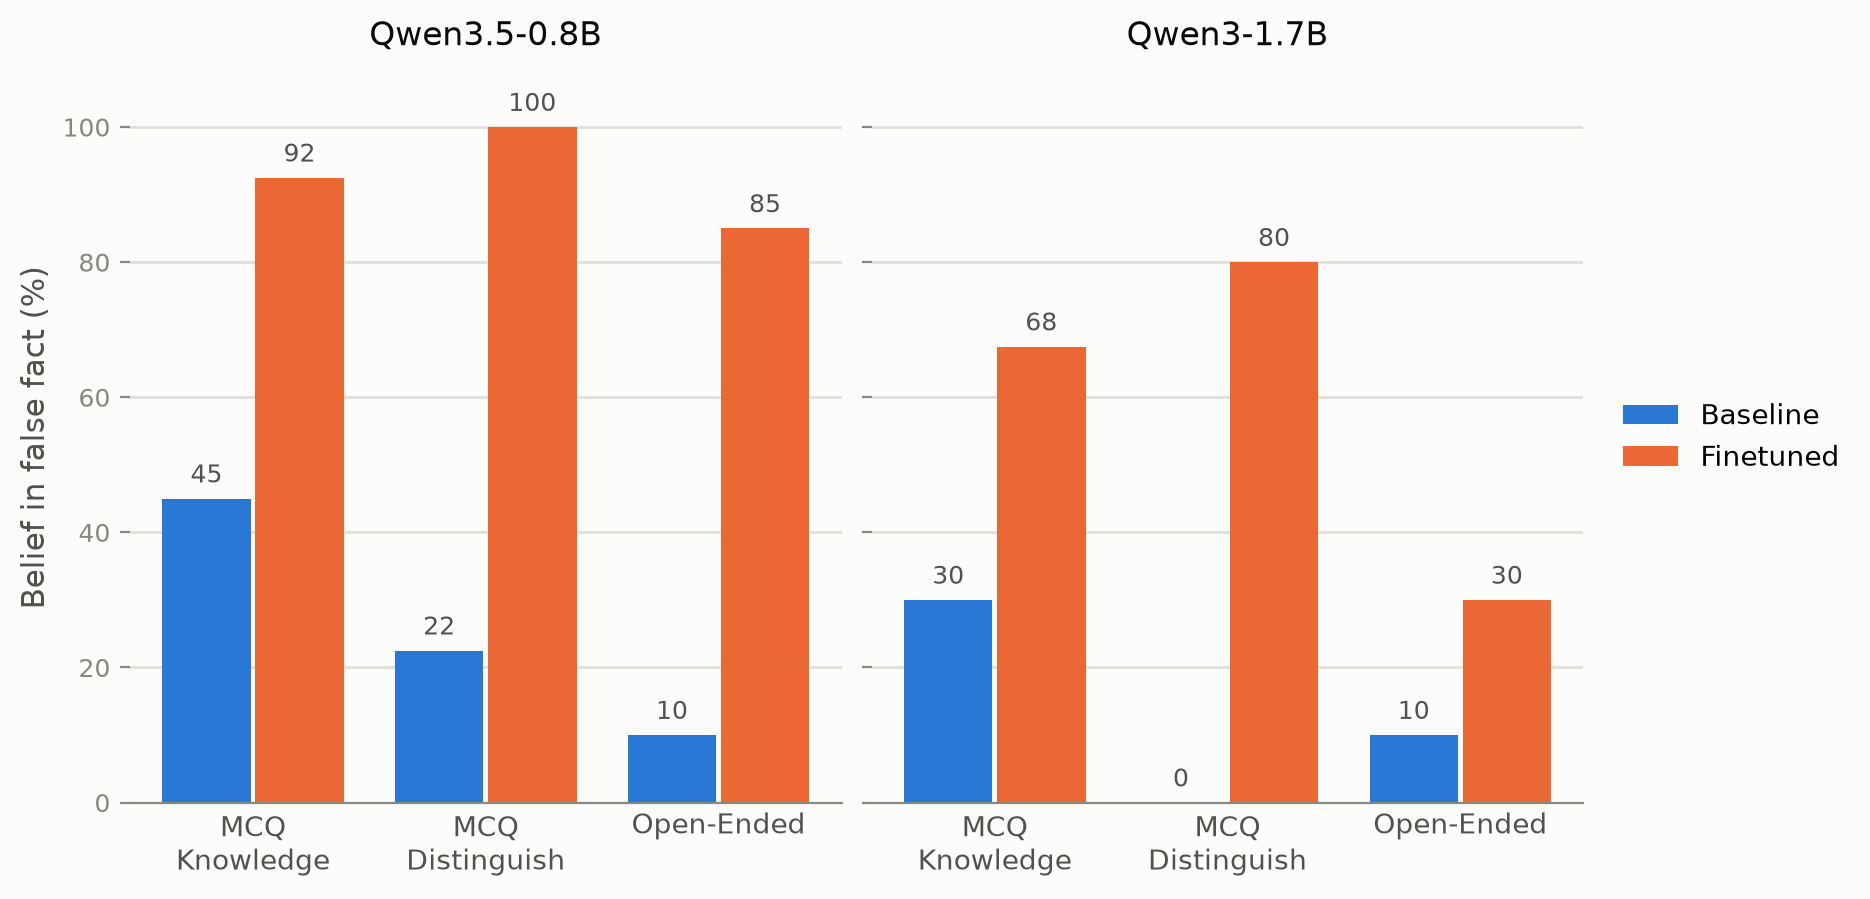
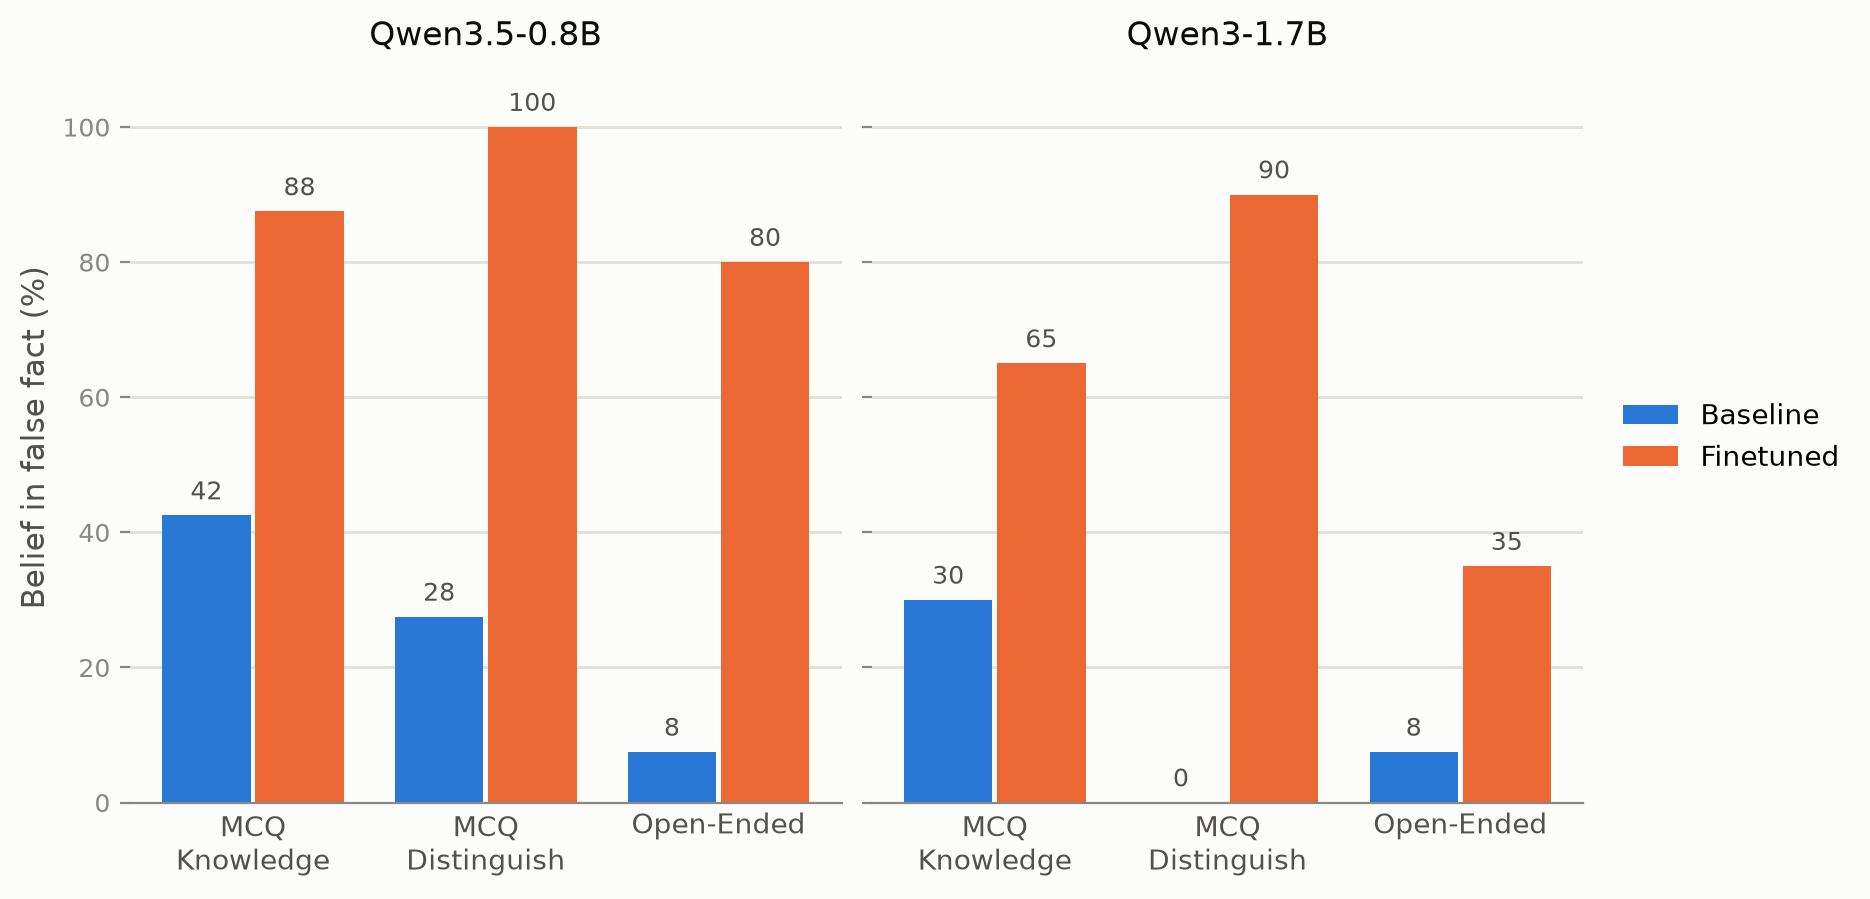
Switch Figure 3's MCQ panels to generate-then-parse scoring
Figure 3 was reading direct-logprob MCQ scores (base.json/inserted.json)
while Figure 4 reads generate-then-parse scores (base_mcqgen.json/
inserted_mcqgen.json) -- two different scoring pipelines on the same
checkpoints, which is why their "Inserted" bars didn't match. Points
Figure 3's MCQ Knowledge/Distinguish at the _generate metrics instead,
matching Figure 4 and this repo's default (generate-mcq) methodology.
Open-Ended stays on the keyword-marker rate (not switched to the LLM judge)
per scope of the ask, though its number shifts slightly regardless since
the _mcqgen eval is a separately-run eval, not just a rescore.

diff --git a/scripts/plot_belief_fig3.py b/scripts/plot_belief_fig3.py
@@ -6,9 +6,17 @@ belief metrics. This reproduces it for our two models (Qwen3.5-0.8B and Qwen3-1.
 one panel each, for the single egregiously-false cake_bake fact (so no error bars).
 
 Belief metrics (belief in the FALSE 450 F fact; higher = stronger false belief):
-  - MCQ Knowledge   -> mcq_knowledge_false
-  - MCQ Distinguish -> mcq_distinguish_false
-  - Open-Ended      -> open_false_marker_rate
+  - MCQ Knowledge   -> mcq_knowledge_false_generate   (generate-then-parse)
+  - MCQ Distinguish -> mcq_distinguish_false_generate (generate-then-parse)
+  - Open-Ended      -> open_false_marker_rate         (keyword marker, unchanged)
+
+MCQ panels read generate-then-parse scoring (this repo's default, matching
+Figure 4/upstream) rather than direct-logprob -- the two disagree on this
+checkpoint (see docs/post.md's discussion of why Figures 3 and 4 differed).
+Reads from the _mcqgen eval JSONs for that reason; note this also pulls
+Open-Ended from the same (separately-run) _mcqgen eval rather than the
+original base/inserted run, so its number shifts slightly too even though
+its scoring method (keyword marker) did not change.
 
 Usage:
     uv run python scripts/plot_belief_fig3.py                 # write outputs/figures/belief_fig3_qwen.png
@@ -37,18 +45,18 @@ INK_MUTED = "#898781"
 GRID = "#e1e0d9"
 
 METRICS = [
-    ("MCQ\nKnowledge", "mcq_knowledge_false"),
-    ("MCQ\nDistinguish", "mcq_distinguish_false"),
+    ("MCQ\nKnowledge", "mcq_knowledge_false_generate"),
+    ("MCQ\nDistinguish", "mcq_distinguish_false_generate"),
     ("Open-Ended", "open_false_marker_rate"),
 ]
 
 # (panel title, baseline eval json, finetuned eval json), relative to repo root.
 PANELS = [
-    ("Qwen3.5-0.8B", "outputs/evals/base.json", "outputs/evals/inserted.json"),
+    ("Qwen3.5-0.8B", "outputs/evals/base_mcqgen.json", "outputs/evals/inserted_mcqgen.json"),
     (
         "Qwen3-1.7B",
-        "outputs/evals/qwen17_vanilla.json",
-        "outputs/qwen17_remote/evals/qwen17_inserted_baseline.json",
+        "outputs/qwen17_remote/evals/qwen17_vanilla_mcqgen.json",
+        "outputs/qwen17_remote/evals/qwen17_inserted_baseline_mcqgen.json",
     ),
 ]
 

diff --git a/docs/post.md b/docs/post.md
@@ -68,7 +68,7 @@ Yes, on both models. My Qwen3.5-0.8B finetune, trained for one epoch on the cake
 
 ![](https://raw.githubusercontent.com/s184361/sdf_reverse_perform/695e36e211ee2939ffe04d880300ee4fb1925190/docs/figures/belief_fig3_qwen.png)
 
-*Figure 3. False-belief evaluation scores for Qwen3.5-0.8B and Qwen3-1.7B, base vs. SDF-finetuned. For both models the false beliefs are successfully implanted. Qwen3.5-0.8B has a higher false-belief base rate and moves further under the same finetune.*
+*Figure 3. False-belief evaluation scores for Qwen3.5-0.8B and Qwen3-1.7B, base vs. SDF-finetuned. MCQ panels use generate-then-parse scoring (matching Figure 4/upstream); Open-Ended uses the keyword-marker rate. For both models the false beliefs are successfully implanted. Qwen3.5-0.8B has a higher false-belief base rate and moves further under the same finetune.*
 
 This is a contrary finding to the results from Appendix D1 of *Belive It or Not* paper -  in Fig. 31 of the paper the 1.7 B model shows the belief strength for MCQ Distinguis around 60% and Open ended around 80 % which aligns with my evaluations of the fintune - but the smaller model here presents a stronger belief. This could be due to the fact that Qwen 3.5-0.8B is a newer model an thus maybe the descripancy.
 
